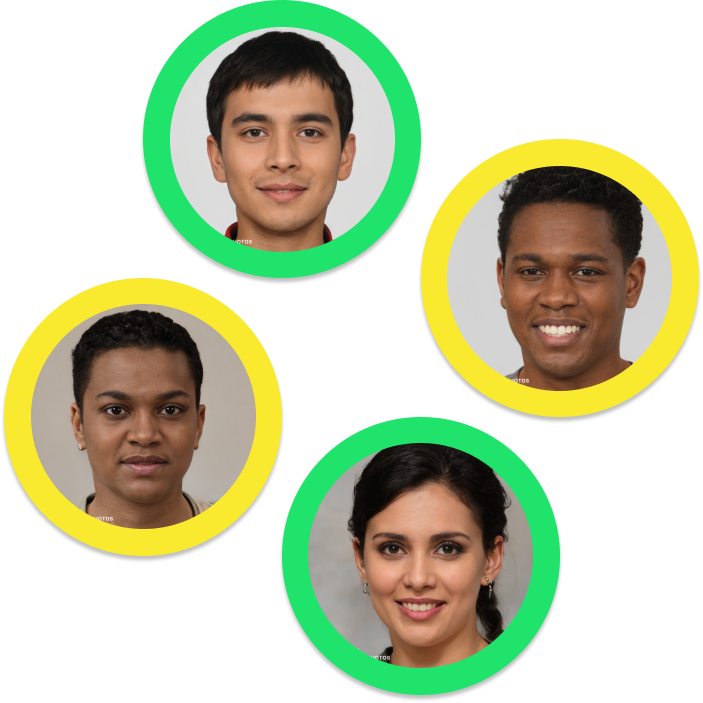
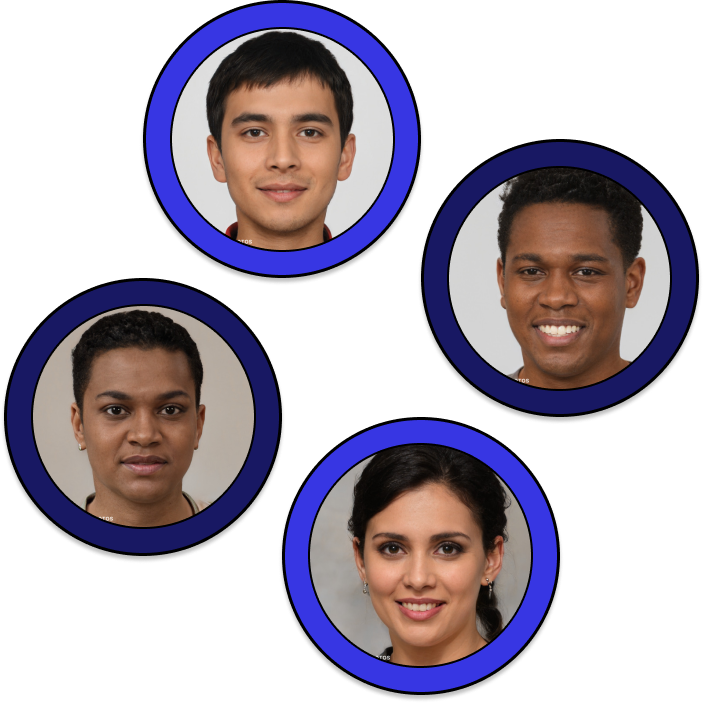
colores cambiados e interfaz mejorada en el landing page, nuevos botones agregados

Changed region(s): [[0.3883, 0.1792, 1.0, 1.0], [0.1792, 0.0, 0.5974, 0.4182], [0.0, 0.3883, 0.4182, 0.8065]]

diff --git a/src/components/Description/index.jsx b/src/components/Description/index.jsx
@@ -1,4 +1,5 @@
 import estudiante from '../../assets/estudiante.jpg'
+import { NavLink } from 'react-router-dom'
 
 export const Description = () => {
     return (
@@ -18,33 +19,17 @@ export const Description = () => {
                     <div class="lg:py-24">
                         <h2 class="text-3xl font-bold sm:text-4xl">Obten la oportunidad para educarte</h2>
 
-                        <p class="mt-4 text-gray-600">
+                        <p class="mt-4 mb-4 text-gray-600">
                             Lorem ipsum dolor, sit amet consectetur adipisicing elit. Aut qui hic
                             atque tenetur quis eius quos ea neque sunt, accusantium soluta minus
                             veniam tempora deserunt? Molestiae eius quidem quam repellat.
                         </p>
 
-                        <a
-                            class="inline-flex items-center px-8 py-3 mt-8 text-white bg-indigo-600 border border-indigo-600 rounded hover:bg-transparent hover:text-indigo-600 active:text-indigo-500 focus:outline-none focus:ring"
-                            href="/get-started"
-                        >
-                            <span class="text-sm font-medium"> Get Started </span>
-
-                            <svg
-                                class="w-5 h-5 ml-3"
-                                xmlns="http://www.w3.org/2000/svg"
-                                fill="none"
-                                viewBox="0 0 24 24"
-                                stroke="currentColor"
-                            >
-                                <path
-                                    stroke-linecap="round"
-                                    stroke-linejoin="round"
-                                    stroke-width="2"
-                                    d="M17 8l4 4m0 0l-4 4m4-4H3"
-                                />
-                            </svg>
-                        </a>
+                        <NavLink to='/'>
+                            <a class="inline-block px-12 py-3 text-sm font-medium text-black rounded shadow bg-complementary border-2 border-black sm:w-auto hover:bg-primary focus:outline-none focus:ring">
+                                Registrarte
+                            </a>
+                        </NavLink>
                     </div>
                 </div>
             </div>

diff --git a/src/components/Hero/index.jsx b/src/components/Hero/index.jsx
@@ -1,16 +1,17 @@
 import ejemplo from '../../assets/ejemplo.png'
+import { NavLink } from 'react-router-dom'
 
 export const Hero = () => {
   return (
     <section class="relative bg-lightYellow">
 
-      <div class="hidden sm:block sm:inset-0 sm:absolute sm:bg-gradient-to-r sm:from-lightYellow sm:to-white"></div>
+      <div class="hidden sm:block sm:inset-0 sm:absolute sm:bg-gradient-to-r sm:from-white sm:to-white"></div>
 
       <div class="relative max-w-screen-xl px-4 py-32 mx-auto lg:h-screen lg:items-center lg:flex">
         <div class="max-w-xl text-center sm:text-left">
           <h2 className="text-3xl font-extrabold sm:text-5xl">
             Accede a
-            <strong className="font-extrabold text-primary sm:block">
+            <strong className="font-extrabold text-darkBlue sm:block">
               La educación de tus sueños
             </strong>
           </h2>
@@ -20,13 +21,16 @@ export const Hero = () => {
           </p>
 
           <div class="flex flex-wrap gap-4 mt-8 text-center">
-            <a class="block w-full px-12 py-3 text-sm font-medium text-black rounded shadow bg-primary border-2 border-black sm:w-auto active:bg-rose-500 hover:bg-alert focus:outline-none focus:ring" href="/get-started">
-              Get Started
-            </a>
-
-            <a class="block w-full px-12 py-3 text-sm font-medium text-black bg-secondary rounded shadow border-2 border-black text-rose-600 sm:w-auto hover:text-rose-700 active:text-rose-500 focus:outline-none focus:ring" href="/about">
-              Learn More
-            </a>
+            <NavLink to='/'>
+              <a class="block w-full px-12 py-3 text-sm font-medium text-black rounded shadow bg-complementary border-2 border-black sm:w-auto active:bg-rose-500 hover:bg-primary focus:outline-none focus:ring">
+                Registrarte
+              </a>
+            </NavLink>
+            <NavLink to='/estudiantes'>
+              <a class="block w-full px-12 py-3 text-sm font-medium text-black rounded shadow bg-secondary border-2 border-black sm:w-auto active:bg-rose-500 hover:bg-primary focus:outline-none focus:ring">
+                Proyecto
+              </a>
+            </NavLink>
           </div>
         </div>
         <div class="max-w-xl text-center sm:text-left">

diff --git a/src/containers/Header/index.jsx b/src/containers/Header/index.jsx
@@ -14,16 +14,16 @@ export const Header = () => {
         <div className="flex flex-col gap-4 mt-4 sm:flex-row sm:mt-0 sm:items-center">
 
             <NavLink to='/'
-            className="inline-flex items-center justify-center px-5 py-3 text-xl font-medium text-white transition bg-trasnparent border-b-2 border-transparent hover:text-primary hover:border-b-2 hover:border-primary focus:outline-none focus:ring" href='#'
+            className="inline-flex items-center justify-center px-5 py-3 text-xl font-medium text-white transition bg-trasnparent border-b-2 border-transparent hover:text-secondary hover:border-b-2 hover:border-secondary focus:outline-none focus:ring" href='#'
             >
             Proyecto
             </NavLink>
             <NavLink to='/estudiantes'
-            className="inline-flex items-center justify-center px-5 py-3 text-xl font-medium text-white transition bg-trasnparent border-b-2 border-transparent hover:text-primary hover:border-b-2 hover:border-primary focus:outline-none focus:ring" href='#'
+            className="inline-flex items-center justify-center px-5 py-3 text-xl font-medium text-white transition bg-trasnparent border-b-2 border-transparent hover:text-secondary hover:border-b-2 hover:border-secondary focus:outline-none focus:ring" href='#'
             >
             Estudiantes
             </NavLink>
-            <a class="inline-flex items-center justify-center px-6 py-3 text-xl font-medium text-white bg-complementary border-2 border-white rounded-lg hover:bg-primary hover:text-black hover:border-black active:bg-primary focus:outline-none focus:ring" href="/download">
+            <a class="inline-flex items-center justify-center px-6 py-3 text-xl font-medium text-white bg-complementary border-2 border-white rounded-lg hover:bg-secondary hover:text-black hover:border-black active:bg-primary focus:outline-none focus:ring" href="/download">
             <span className="text-sm font-medium"> Ingresar </span>
 
             <svg

diff --git a/src/components/Platforms/index.jsx b/src/components/Platforms/index.jsx
@@ -11,7 +11,7 @@ export const Platforms = () => {
         <section class="text-white bg-darkBlue">
             <div class="px-4 py-16 mx-auto max-w-screen-xl sm:px-6 lg:px-8">
                 <div class="max-w-lg mx-auto text-center">
-                    <h2 class="text-3xl text-lightBlue font-bold sm:text-4xl">Plataformas</h2>
+                    <h2 class="text-3xl text-secondary font-bold sm:text-4xl">Plataformas</h2>
 
                     <p class="mt-4">
                         Lorem ipsum, dolor sit amet consectetur adipisicing elit. Consequuntur
@@ -29,8 +29,7 @@ export const Platforms = () => {
                     <PlatformCard name='CodigoFacilito' image={CodigoFacilitoImg} />
                 </div><div class="mt-12 text-center">
                     <a
-                        class="inline-flex items-center px-8 py-3 mt-8 text-black bg-lightBlue border border-black rounded hover:bg-transparent hover:border-white hover:text-white active:text-lightBlue focus:outline-none focus:ring"
-                        href="/get-started"
+                        class="inline-flex items-center px-8 py-3 mt-8 text-black bg-secondary border-2 border-black rounded hover:bg-transparent hover:border-white hover:text-white active:text-secondary focus:outline-none focus:ring"
                     >
                         <span class="text-sm font-medium">Aplicar</span>
 

diff --git a/src/components/Donate/index.jsx b/src/components/Donate/index.jsx
@@ -22,7 +22,7 @@ export const Donate = () => {
                     </p>
 
                     <div class="flex flex-wrap mt-8 text-center gap-4">
-                        <a class="block w-full px-12 py-3 text-sm font-medium text-black rounded shadow bg-yellow border border-black sm:w-auto active:bg-rose-500 hover:bg-rose-700 focus:outline-none focus:ring" href="/get-started">
+                        <a class="block w-full px-12 py-3 text-sm font-medium text-black rounded shadow bg-complementary border-2 border-black sm:w-auto active:bg-rose-500 hover:bg-primary focus:outline-none focus:ring">
                             Donar
                         </a>
                     </div>

diff --git a/src/components/PlatformCard/index.jsx b/src/components/PlatformCard/index.jsx
@@ -6,7 +6,7 @@ export const PlatformCard = ({ name, image }) => {
         >
             <div className="flex justify-center">
                 <div className="relative">
-                    <img alt="..." src={image} className="bg-cover h-48 w-48 align-middle border-none" />
+                    <img alt="..." src={image} className="bg-cover h-32 w-32 align-middle border-none" />
                 </div>
 
             </div>
